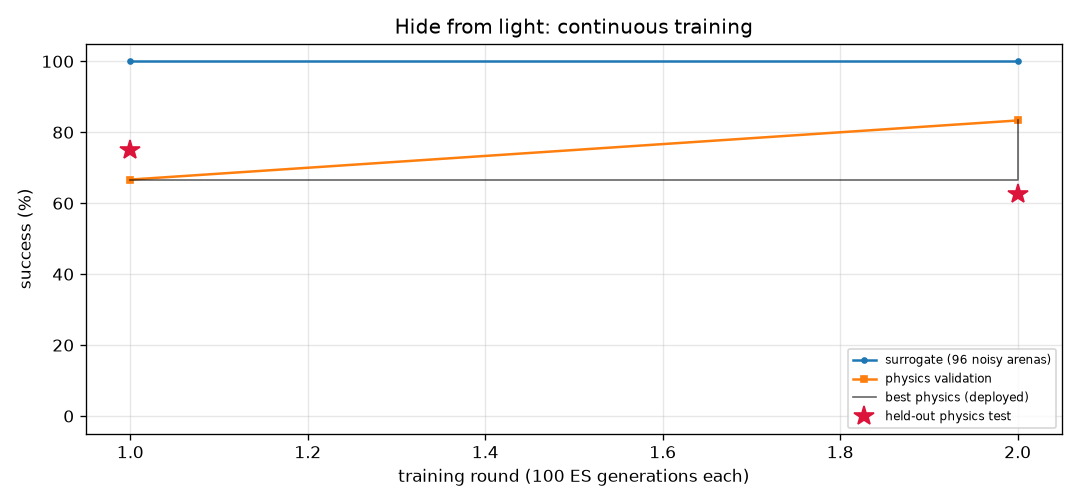
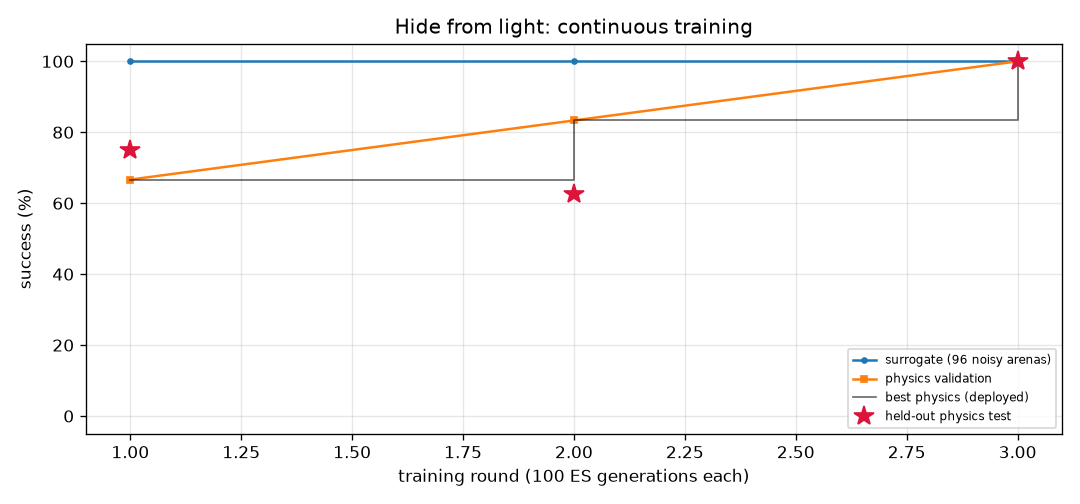
FlyLab: turn, light_avoid and odor_avoid brains mastered
odor_avoid was stuck at 67% physics validation for 40 rounds; its first reseeded
lineage reached 100% validation and 100% held-out physics test in one round.

diff --git a/projects/09_flylab/training/odor_avoid/REPORT.md b/projects/09_flylab/training/odor_avoid/REPORT.md
@@ -1,24 +1,22 @@
 # Escape a bad smell (`odor_avoid`) — training report
 
-*Auto-generated by `train_brains.py`, last updated 2026-09-25T01:29:01.*
+*Auto-generated by `train_brains.py`, last updated 2026-09-25T07:40:43.*
 
 ![curve](curve.png)
 
 | | |
 |---|---|
-| rounds | 40 |
-| ES generations | 4000 |
-| physics runs | 264 |
-| status | training |
-| best brain | round 39: physics validation **67%**, surrogate 90% |
-| held-out physics test | **88%** on 8 unseen arenas (errors: [6.4, 11.5, 7.2, 12.9, 7.7, 11.6, 4.7, 10.4]) |
+| rounds | 42 |
+| ES generations | 4200 |
+| physics runs | 284 |
+| status | **mastered** |
+| best brain | round 42: physics validation **100%**, surrogate 100% |
+| held-out physics test | **100%** on 8 unseen arenas (errors: [33.9, 30.3, 35.4, 34.0, 35.7, 35.3, 34.5, 33.9]) |
 
 Physics error per arena: mm gained away from source (> 6 = success).
 
 | round | gens | sigma | surrogate | physics val | val errors | test | note |
 |---:|---:|---:|---:|---:|---|---:|---|
-| 1 | 100 | 0.030 | 90% | 67% | [8.7, 13.9, 13.0, 13.8, 4.4, 3.7] | 88% | new best |
-| 2 | 200 | 0.030 | 90% | 67% | [8.7, 13.9, 13.0, 13.8, 4.4, 3.7] |  |  |
 | 3 | 300 | 0.030 | 90% | 67% | [8.7, 13.9, 13.0, 13.8, 4.4, 3.7] |  |  |
 | 4 | 400 | 0.030 | 90% | 67% | [8.7, 13.9, 13.0, 13.8, 4.4, 3.7] |  |  |
 | 5 | 500 | 0.030 | 90% | 67% | [8.7, 13.9, 13.0, 13.8, 4.4, 3.7] |  | restart from best |
@@ -57,3 +55,5 @@ Physics error per arena: mm gained away from source (> 6 = success).
 | 38 | 3800 | 0.030 | 90% | 67% | [8.7, 13.9, 13.0, 13.8, 4.4, 3.7] |  |  |
 | 39 | 3900 | 0.030 | 90% | 67% | [8.7, 13.9, 13.0, 13.8, 4.4, 3.7] | 88% | new best |
 | 40 | 4000 | 0.030 | 90% | 67% | [8.7, 13.9, 13.0, 13.8, 4.4, 3.7] |  |  |
+| 41 | 4100 | 0.030 | 90% | 67% | [8.7, 13.9, 13.0, 13.8, 4.4, 3.7] |  | reseed: fresh weights |
+| 42 | 4200 | 0.025 | 100% | 100% | [35.7, 33.8, 30.4, 34.0, 34.5, 34.7] | 100% | new best |

diff --git a/projects/09_flylab/training/TRAINING.md b/projects/09_flylab/training/TRAINING.md
@@ -1,6 +1,6 @@
 # FlyLab brains — continuous training log
 
-*Auto-generated by `train_brains.py`, last updated 2026-09-25T07:34:21.*
+*Auto-generated by `train_brains.py`, last updated 2026-09-25T07:40:43.*
 
 Every skill has its own brain and its own training process: surrogate ES rounds, physics validation in MuJoCo, keep-the-best selection, and a held-out physics test that is never used for selection. See each skill's report for its full round-by-round history.
 
@@ -10,6 +10,6 @@ Every skill has its own brain and its own training process: surrogate ES rounds,
 | [Turn in place](turn/REPORT.md) | 3 | 300 | 42 | 99% | 100% | 88% | mastered |
 | [Go to a location](goto/REPORT.md) | 23 | 2300 | 186 | 80% | 100% | 75% | training |
 | [Find food by smell](odor_seek/REPORT.md) | 28 | 2800 | 208 | 84% | 83% | 62% | training |
-| [Escape a bad smell](odor_avoid/REPORT.md) | 40 | 4000 | 264 | 90% | 67% | 88% | training |
+| [Escape a bad smell](odor_avoid/REPORT.md) | 42 | 4200 | 284 | 100% | 100% | 100% | mastered |
 | [Walk toward light](light_seek/REPORT.md) | 1 | 100 | 14 | 100% | 100% | 100% | mastered |
-| [Hide from light](light_avoid/REPORT.md) | 2 | 200 | 28 | 100% | 83% | 62% | training |
+| [Hide from light](light_avoid/REPORT.md) | 3 | 300 | 42 | 100% | 100% | 100% | mastered |

diff --git a/projects/09_flylab/training/light_avoid/REPORT.md b/projects/09_flylab/training/light_avoid/REPORT.md
@@ -1,17 +1,17 @@
 # Hide from light (`light_avoid`) — training report
 
-*Auto-generated by `train_brains.py`, last updated 2026-09-25T00:54:01.*
+*Auto-generated by `train_brains.py`, last updated 2026-09-25T07:38:03.*
 
 ![curve](curve.png)
 
 | | |
 |---|---|
-| rounds | 2 |
-| ES generations | 200 |
-| physics runs | 28 |
-| status | training |
-| best brain | round 2: physics validation **83%**, surrogate 100% |
-| held-out physics test | **62%** on 8 unseen arenas (errors: [-3.4, 63.6, 63.5, 64.1, 64.1, 31.3, -5.8, -5.0]) |
+| rounds | 3 |
+| ES generations | 300 |
+| physics runs | 42 |
+| status | **mastered** |
+| best brain | round 3: physics validation **100%**, surrogate 100% |
+| held-out physics test | **100%** on 8 unseen arenas (errors: [37.0, 63.6, 63.6, 64.2, 64.2, 29.6, 19.5, 32.0]) |
 
 Physics error per arena: mm gained away from source (> 6 = success).
 
@@ -19,3 +19,4 @@ Physics error per arena: mm gained away from source (> 6 = success).
 |---:|---:|---:|---:|---:|---|---:|---|
 | 1 | 100 | 0.025 | 100% | 67% | [-6.7, 63.6, 63.4, 24.0, 62.8, -7.0] | 75% | new best |
 | 2 | 200 | 0.024 | 100% | 83% | [-6.5, 63.7, 63.5, 31.7, 63.0, 15.4] | 62% | new best |
+| 3 | 300 | 0.024 | 100% | 100% | [15.6, 63.8, 63.5, 10.1, 63.1, 29.7] | 100% | new best |
